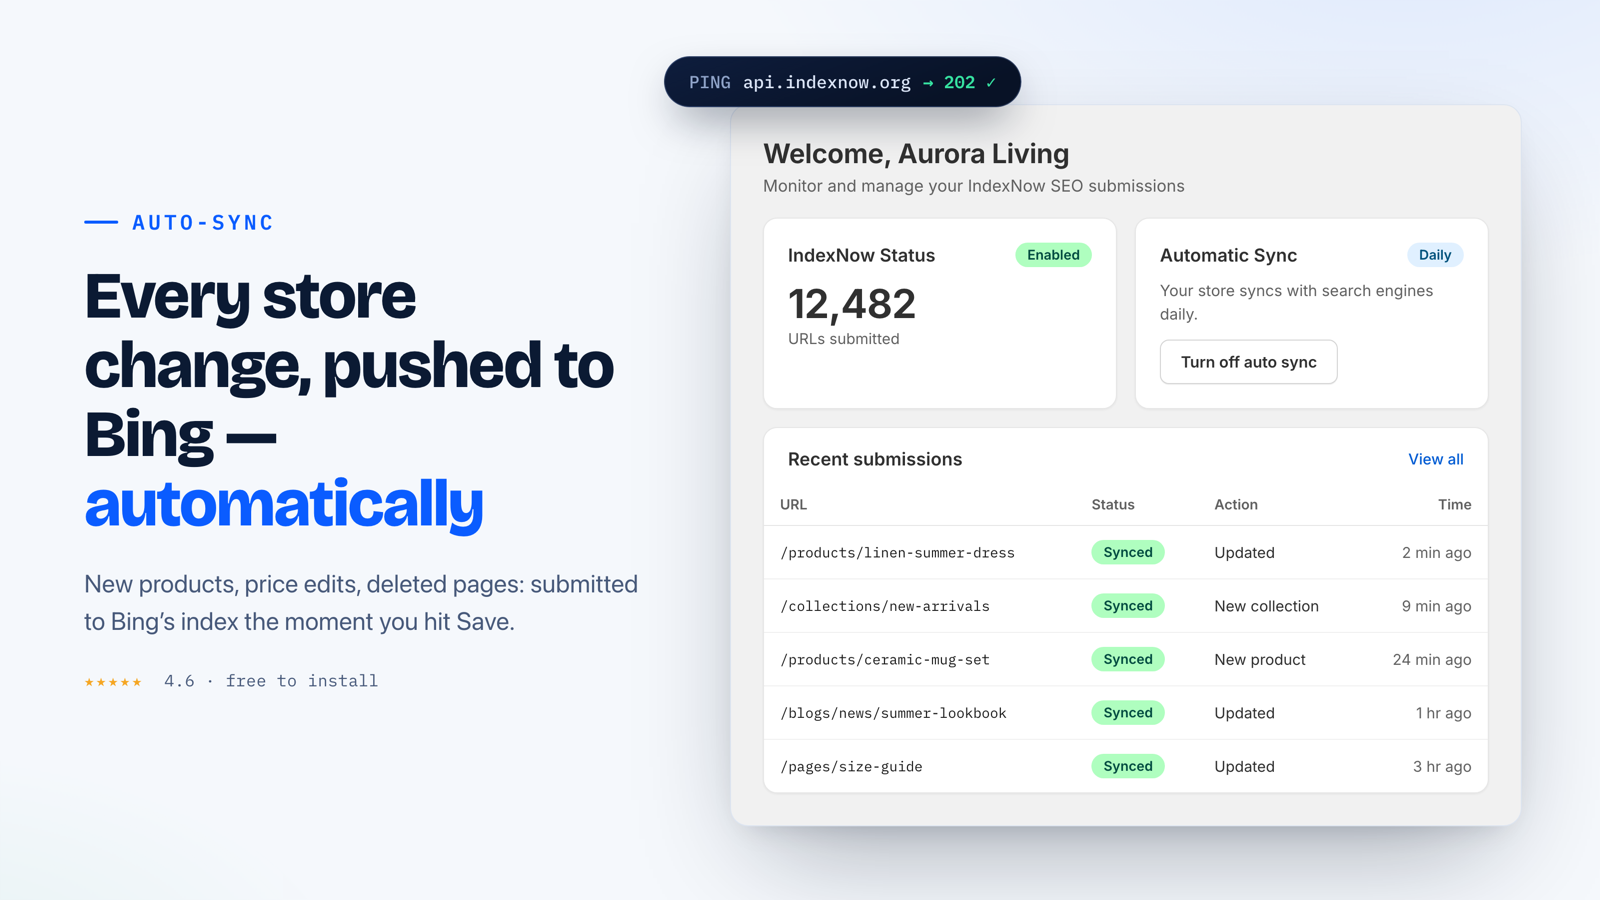
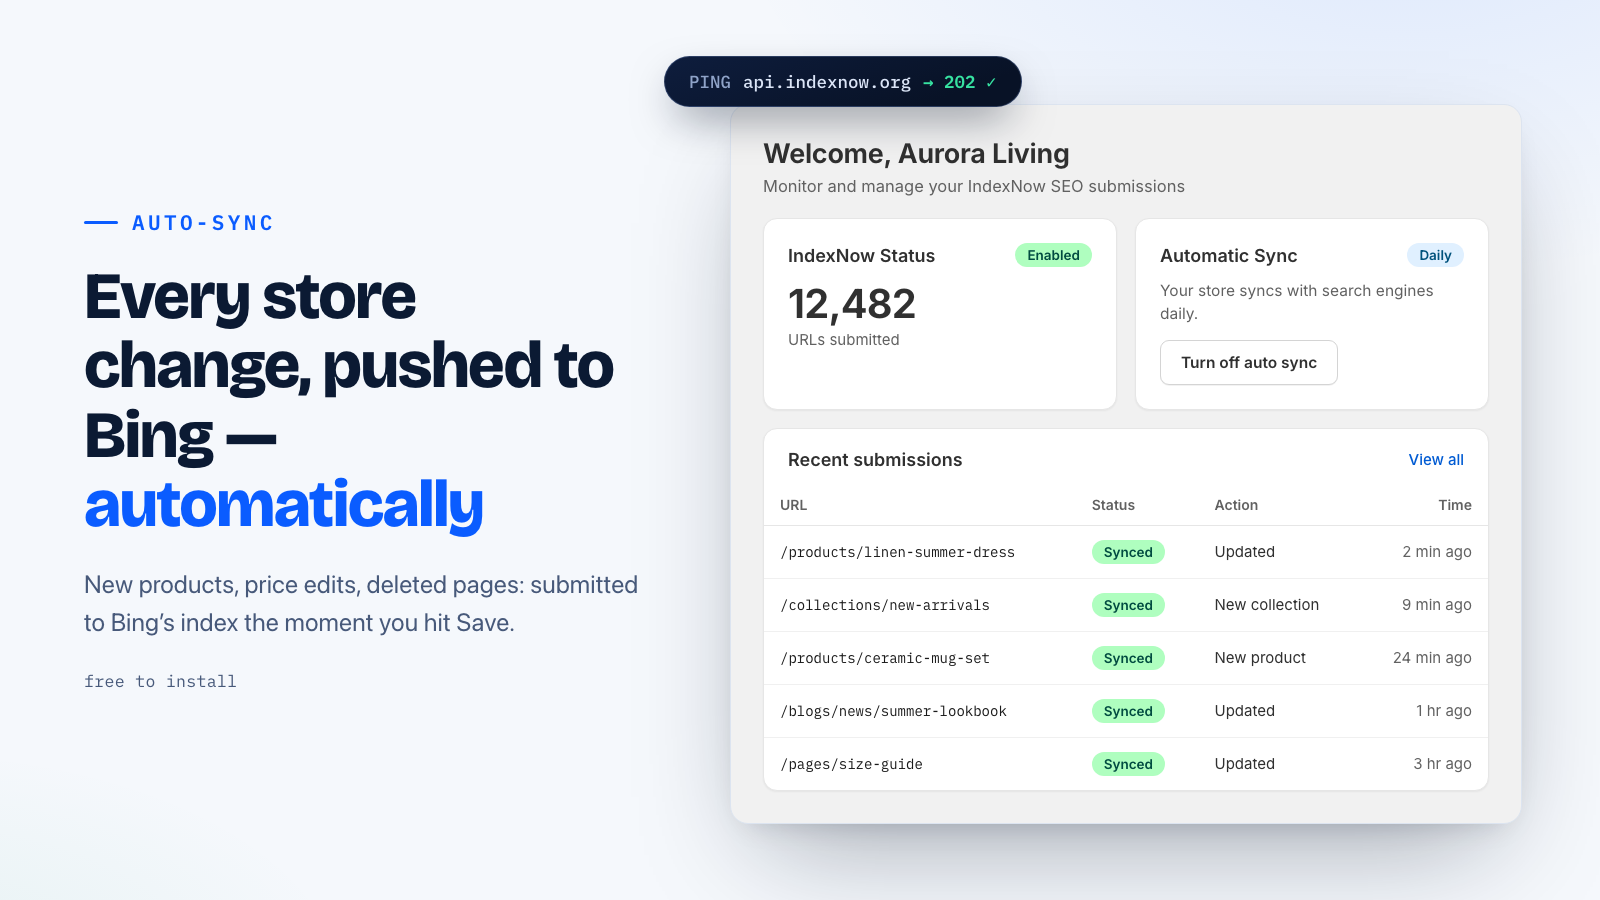
Remove star rating from app store screenshots per Shopify guidelines

diff --git a/app-store-screenshots/src/01-dashboard.html b/app-store-screenshots/src/01-dashboard.html
@@ -24,7 +24,7 @@
     <div class="eyebrow">Auto-sync</div>
     <h1>Every store change, pushed to Bing — <em>automatically</em></h1>
     <p class="sub">New products, price edits, deleted pages: submitted to Bing&rsquo;s index the moment you hit Save.</p>
-    <p class="micro"><span class="stars">★★★★★</span>&nbsp; 4.6 · free to install</p>
+    <p class="micro">free to install</p>
   </div>
 
   <div class="chip"><span class="dim">PING</span> api.indexnow.org <span class="ok">→ 202 ✓</span></div>

diff --git a/app-store-screenshots/src/m1-dashboard.html b/app-store-screenshots/src/m1-dashboard.html
@@ -23,7 +23,7 @@
     <div class="eyebrow">Auto-sync</div>
     <h1>Every store change, pushed to <em>Bing</em></h1>
     <p class="sub">New products, price edits, deleted pages — synced from your pocket, or with no one watching at all.</p>
-    <p class="micro"><span class="stars">★★★★★</span>&nbsp; 4.6 · free to install</p>
+    <p class="micro">free to install</p>
   </div>
 
   <div class="chip"><span class="dim">PING</span> api.indexnow.org <span class="ok">→ 202 ✓</span></div>
